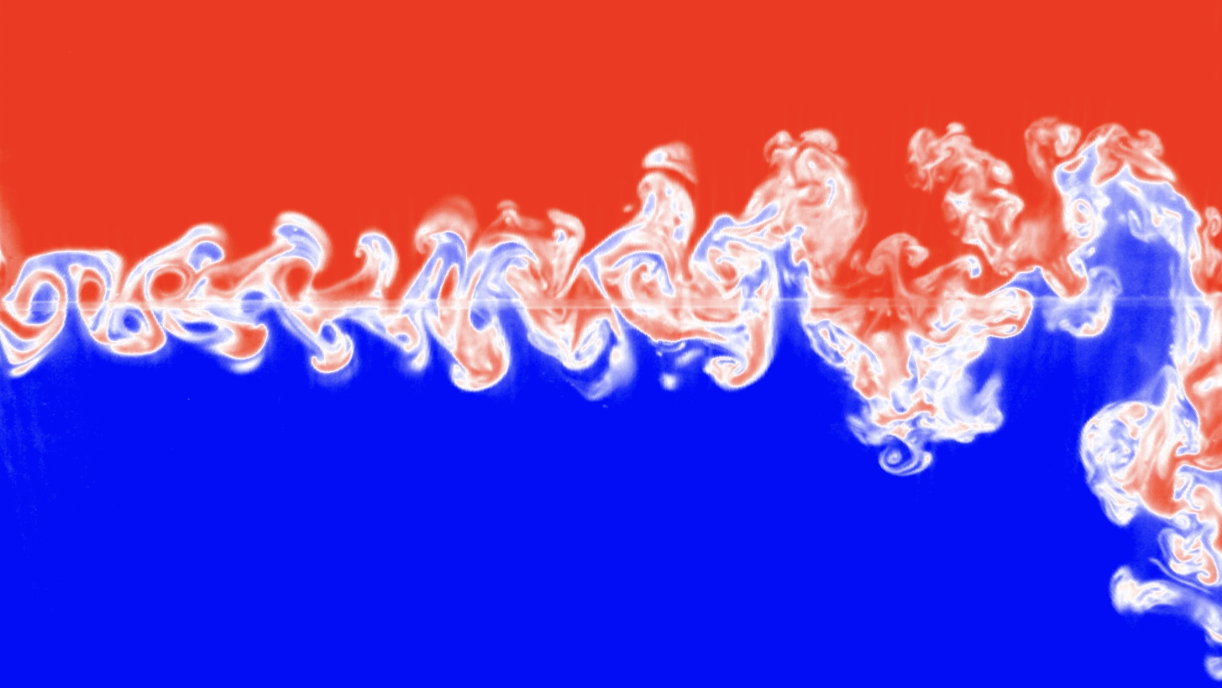
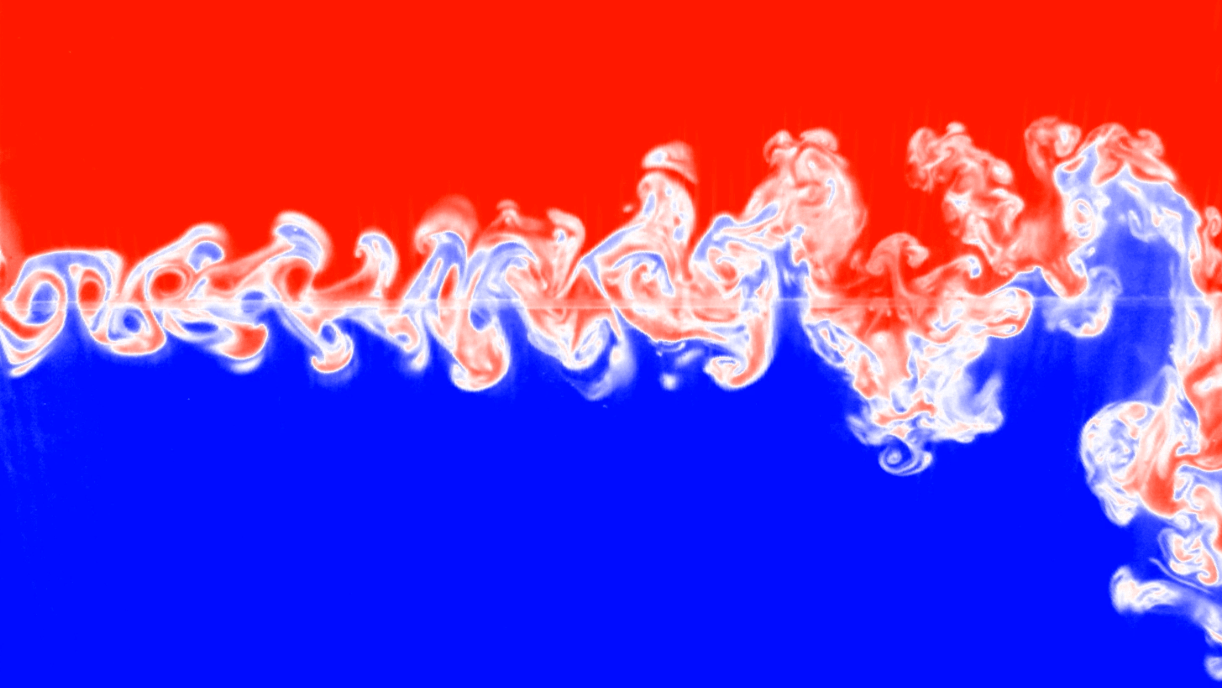
Fix author names (#16)
* fixed date

* walrus rti blog stuff

* Add Walrus RTI blog post

* tweak blog post

* tweak blog post

* tweak blog post

* tweak blog post

* tweak blog post

* tweak blog post

* add sim-to-real image

* add a comment on transient

* tweak math symbols in the write-up

* final blog polish

* final blog polish

* final blog polishes

* final blog polishes - word tweaks

* final blog polishes - word tweaks

* final blog polishes - word tweaks

* final blog polishes - stratified physics description tweak

* add paths to released resources to blog

* fix splash images

* fix splash images

* fix links

* edit splash pictures

* fix_author_list

* fix author names

diff --git a/_posts/2026-5-20-walrus-rti.md b/_posts/2026-5-20-walrus-rti.md
@@ -1,7 +1,7 @@
 ---
 layout: post
 title: "Emergent Transfer of a Physics Foundation Model from Simulation to Laboratory Turbulence"
-authors: Payel Mukhopadhyay, Stefan Nixon
+authors: Payel Mukhopadhyay, Stefan Nixon, Romain Watteaux, Alberto Bietti, Kyunghyun Cho, Cristiana Diaconu, Irina Espejo Morales, David Fouhey, Siavash Golkar, Tom Hehir, Shirley Ho, Jake Kovalic, Géraud Krawezik, François Lanusse, Tanya Marwah, Michael McCabe, Rudy Morel, Mariel Pettee, Helen Qu, Jeff Shen, Hadi Sotoudeh, Stuart Dalziel, Miles Cranmer
 shorttitle: "A Physics Foundation Model Bridges Simulation and Laboratory Turbulence"
 date: 2026-06-03
 smallimage: /images/blog/walrus-rti/RTI_pretty_small.png
@@ -141,7 +141,7 @@ Materials:<br/>
 * **Data:** [Huggingface](https://huggingface.co/datasets/pmukhop/rti-dataset-boussinesq)<br/>
 * **Model Checkpoint:** [Huggingface](https://huggingface.co/pmukhop/rti-walrus-model)<br/>
 
-*-- Payel Mukhopadhyay, Stefan Nixon, Romain Watteaux, Alberto Bietti, Kyunghyun Cho, Cristiana Diaconu, Irina Espejo Morales, David Fouhey, Siavash Golkar, Tom Hehir, Shirley Ho, Jake Kovalic, Géraud Krawezik, François Lanusse, Tanya Marwah, Michael McCabe, Rudy Morel, Mariel Pettee, Helen Qu, Jeff Shen, Hadi Sotoudeh, Stuart Dalziel, Miles Cranmer*
+*-- Payel Mukhopadhyay, Stefan Nixon*
 
 ---
 **Acknowledgements**